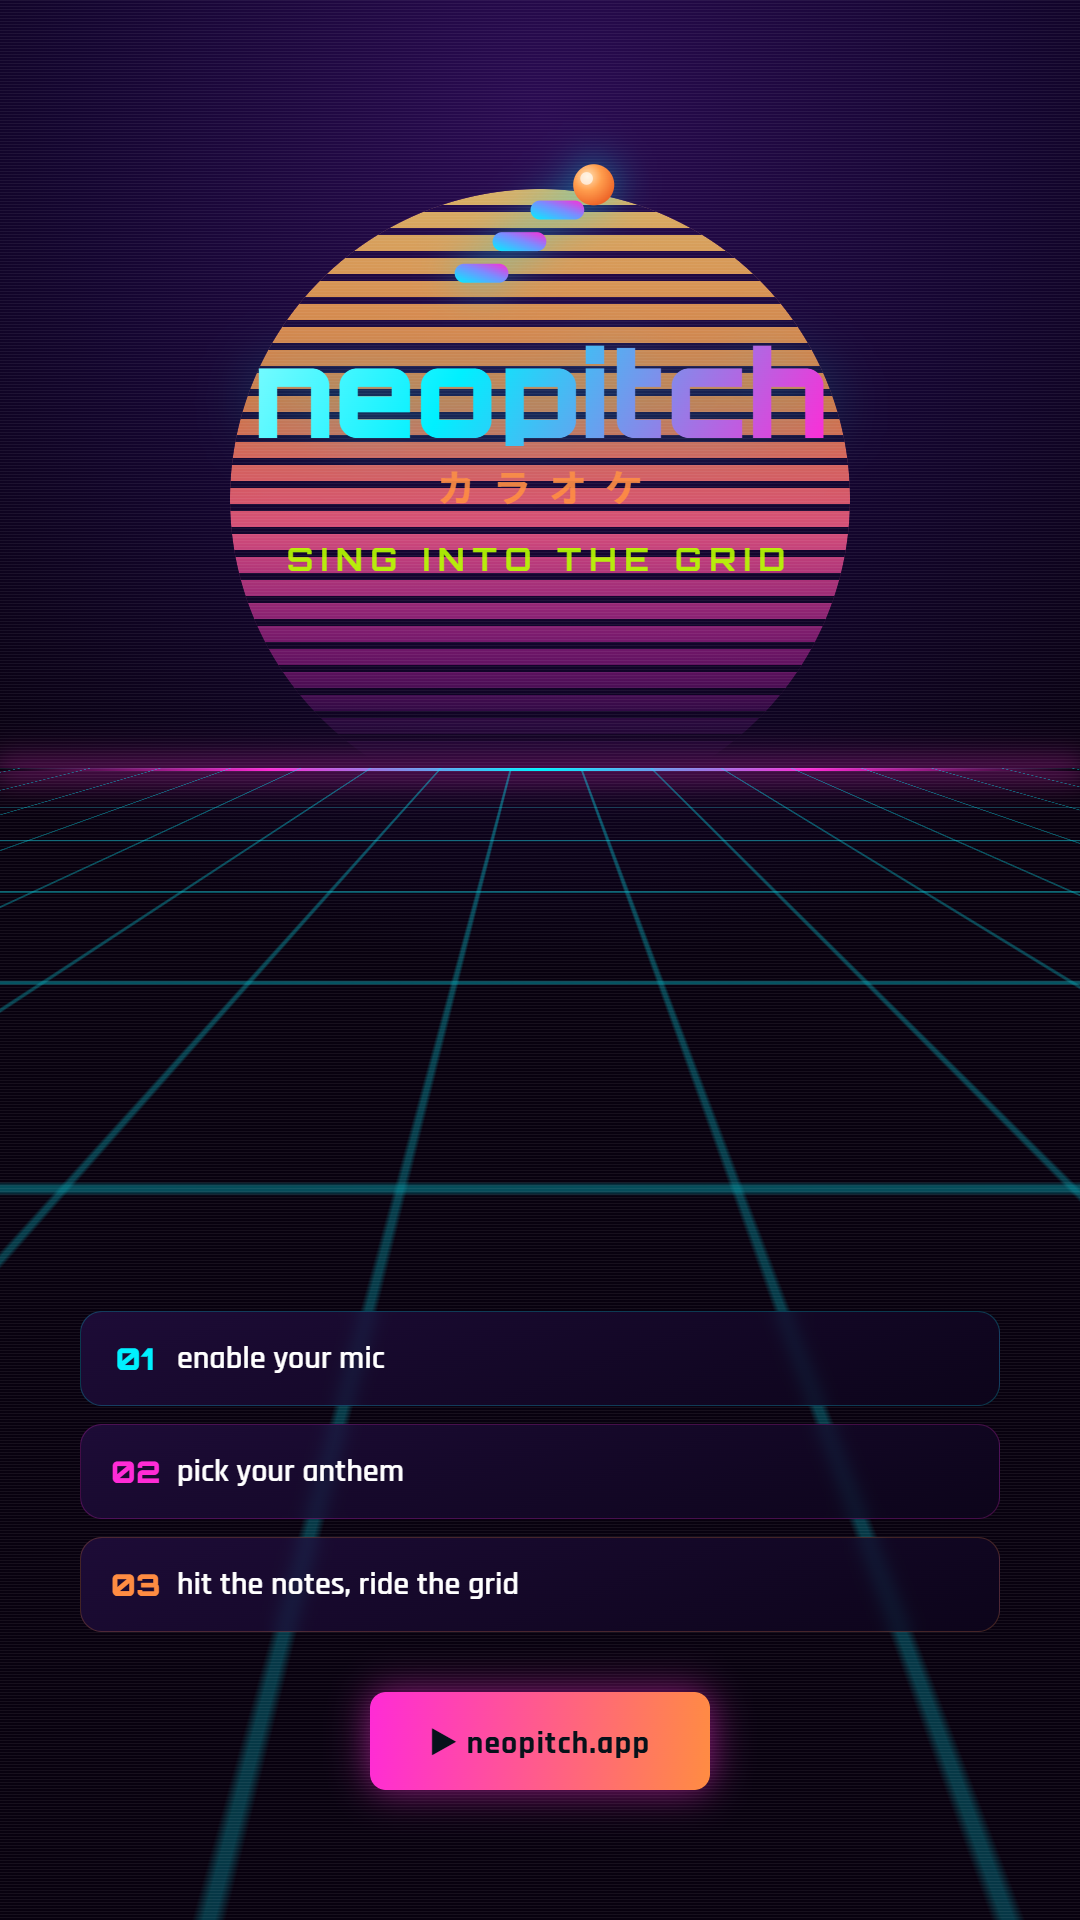
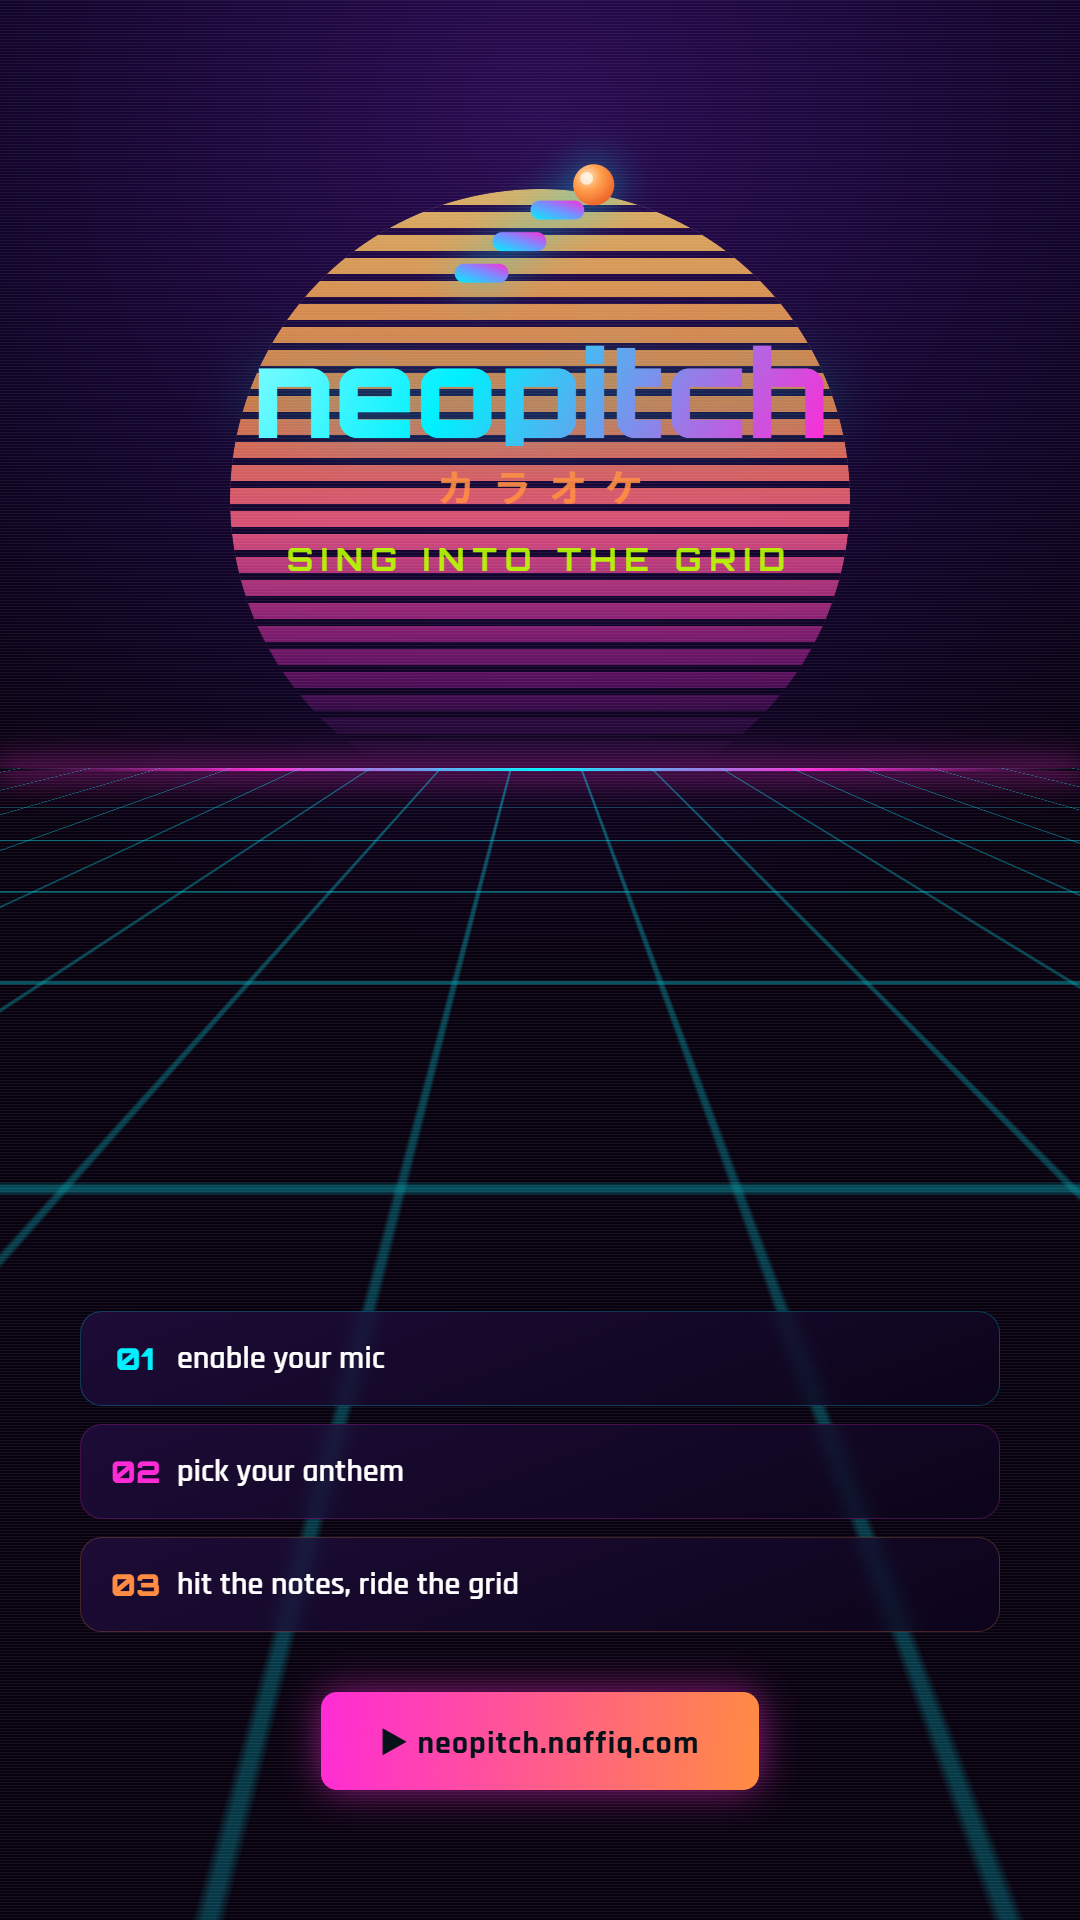
feat(brand): updated promo domain and added analytics

Changed region(s): [[0.3972, 0.875, 0.7333, 0.9375], [0.275, 0.875, 0.3667, 0.9375]]

diff --git a/index.html b/index.html
@@ -7,6 +7,16 @@
     <meta name="description" content="Browser karaoke that scores your pitch live. Pick an anthem, hit the notes, ride the sunset." />
     <meta name="theme-color" content="#07040e" />
 
+    <!-- Google tag (gtag.js) -->
+    <script async src="https://www.googletagmanager.com/gtag/js?id=G-PB6NXF1G1T"></script>
+    <script>
+      window.dataLayer = window.dataLayer || [];
+      function gtag(){dataLayer.push(arguments);}
+      gtag('js', new Date());
+
+      gtag('config', 'G-PB6NXF1G1T');
+    </script>
+
     <!-- Favicon / app icon (poster still of brand/app-icon.mp4) -->
     <link rel="icon" type="image/png" href="brand/app-icon.png" />
     <link rel="apple-touch-icon" href="brand/app-icon.png" />
@@ -15,11 +25,11 @@
     <meta property="og:type" content="website" />
     <meta property="og:title" content="neopitch — sing into the grid" />
     <meta property="og:description" content="Browser karaoke that scores your pitch live. Pick an anthem, hit the notes, ride the sunset." />
-    <meta property="og:url" content="https://naffiq.github.io/neopitch/" />
-    <meta property="og:image" content="https://naffiq.github.io/neopitch/brand/share-og.png" />
+    <meta property="og:url" content="https://neopitch.naffiq.com/" />
+    <meta property="og:image" content="https://neopitch.naffiq.com/brand/share-og.png" />
     <meta property="og:image:width" content="1200" />
     <meta property="og:image:height" content="630" />
-    <meta property="og:video" content="https://naffiq.github.io/neopitch/brand/share-og.mp4" />
+    <meta property="og:video" content="https://neopitch.naffiq.com/brand/share-og.mp4" />
     <meta property="og:video:type" content="video/mp4" />
     <meta property="og:video:width" content="1200" />
     <meta property="og:video:height" content="630" />
@@ -28,7 +38,7 @@
     <meta name="twitter:card" content="summary_large_image" />
     <meta name="twitter:title" content="neopitch — sing into the grid" />
     <meta name="twitter:description" content="Browser karaoke that scores your pitch live. Pick an anthem, hit the notes, ride the sunset." />
-    <meta name="twitter:image" content="https://naffiq.github.io/neopitch/brand/share-og.png" />
+    <meta name="twitter:image" content="https://neopitch.naffiq.com/brand/share-og.png" />
   </head>
   <body>
     <div id="game-root"></div>

diff --git a/tools/brand/promo-square.html b/tools/brand/promo-square.html
@@ -58,7 +58,7 @@
     <div class="kata">カラオケ</div>
     <div class="tag">sing into the grid</div>
     <div class="sub">live pitch scoring · your favorite anthems · right in the browser</div>
-    <div class="cta">▶ play free at neopitch.app</div>
+    <div class="cta">▶ play free at neopitch.naffiq.com</div>
   </div>
 </div>
 </body>

diff --git a/tools/brand/promo-story.html b/tools/brand/promo-story.html
@@ -67,7 +67,7 @@
       <div class="step s2"><div class="n">02</div><div class="t">pick your anthem</div></div>
       <div class="step s3"><div class="n">03</div><div class="t">hit the notes, ride the grid</div></div>
     </div>
-    <div class="cta">▶ neopitch.app</div>
+    <div class="cta">▶ neopitch.naffiq.com</div>
   </div>
 </div>
 </body>

diff --git a/tools/brand/share-og.html b/tools/brand/share-og.html
@@ -67,7 +67,7 @@
     <div class="sub">Browser karaoke that scores your pitch live. Pick an anthem, hit the notes, ride the sunset.</div>
     <div class="ctas">
       <div class="cta">▶ play free</div>
-      <div class="url">neopitch.app</div>
+      <div class="url">neopitch.naffiq.com</div>
     </div>
   </div>
 </div>